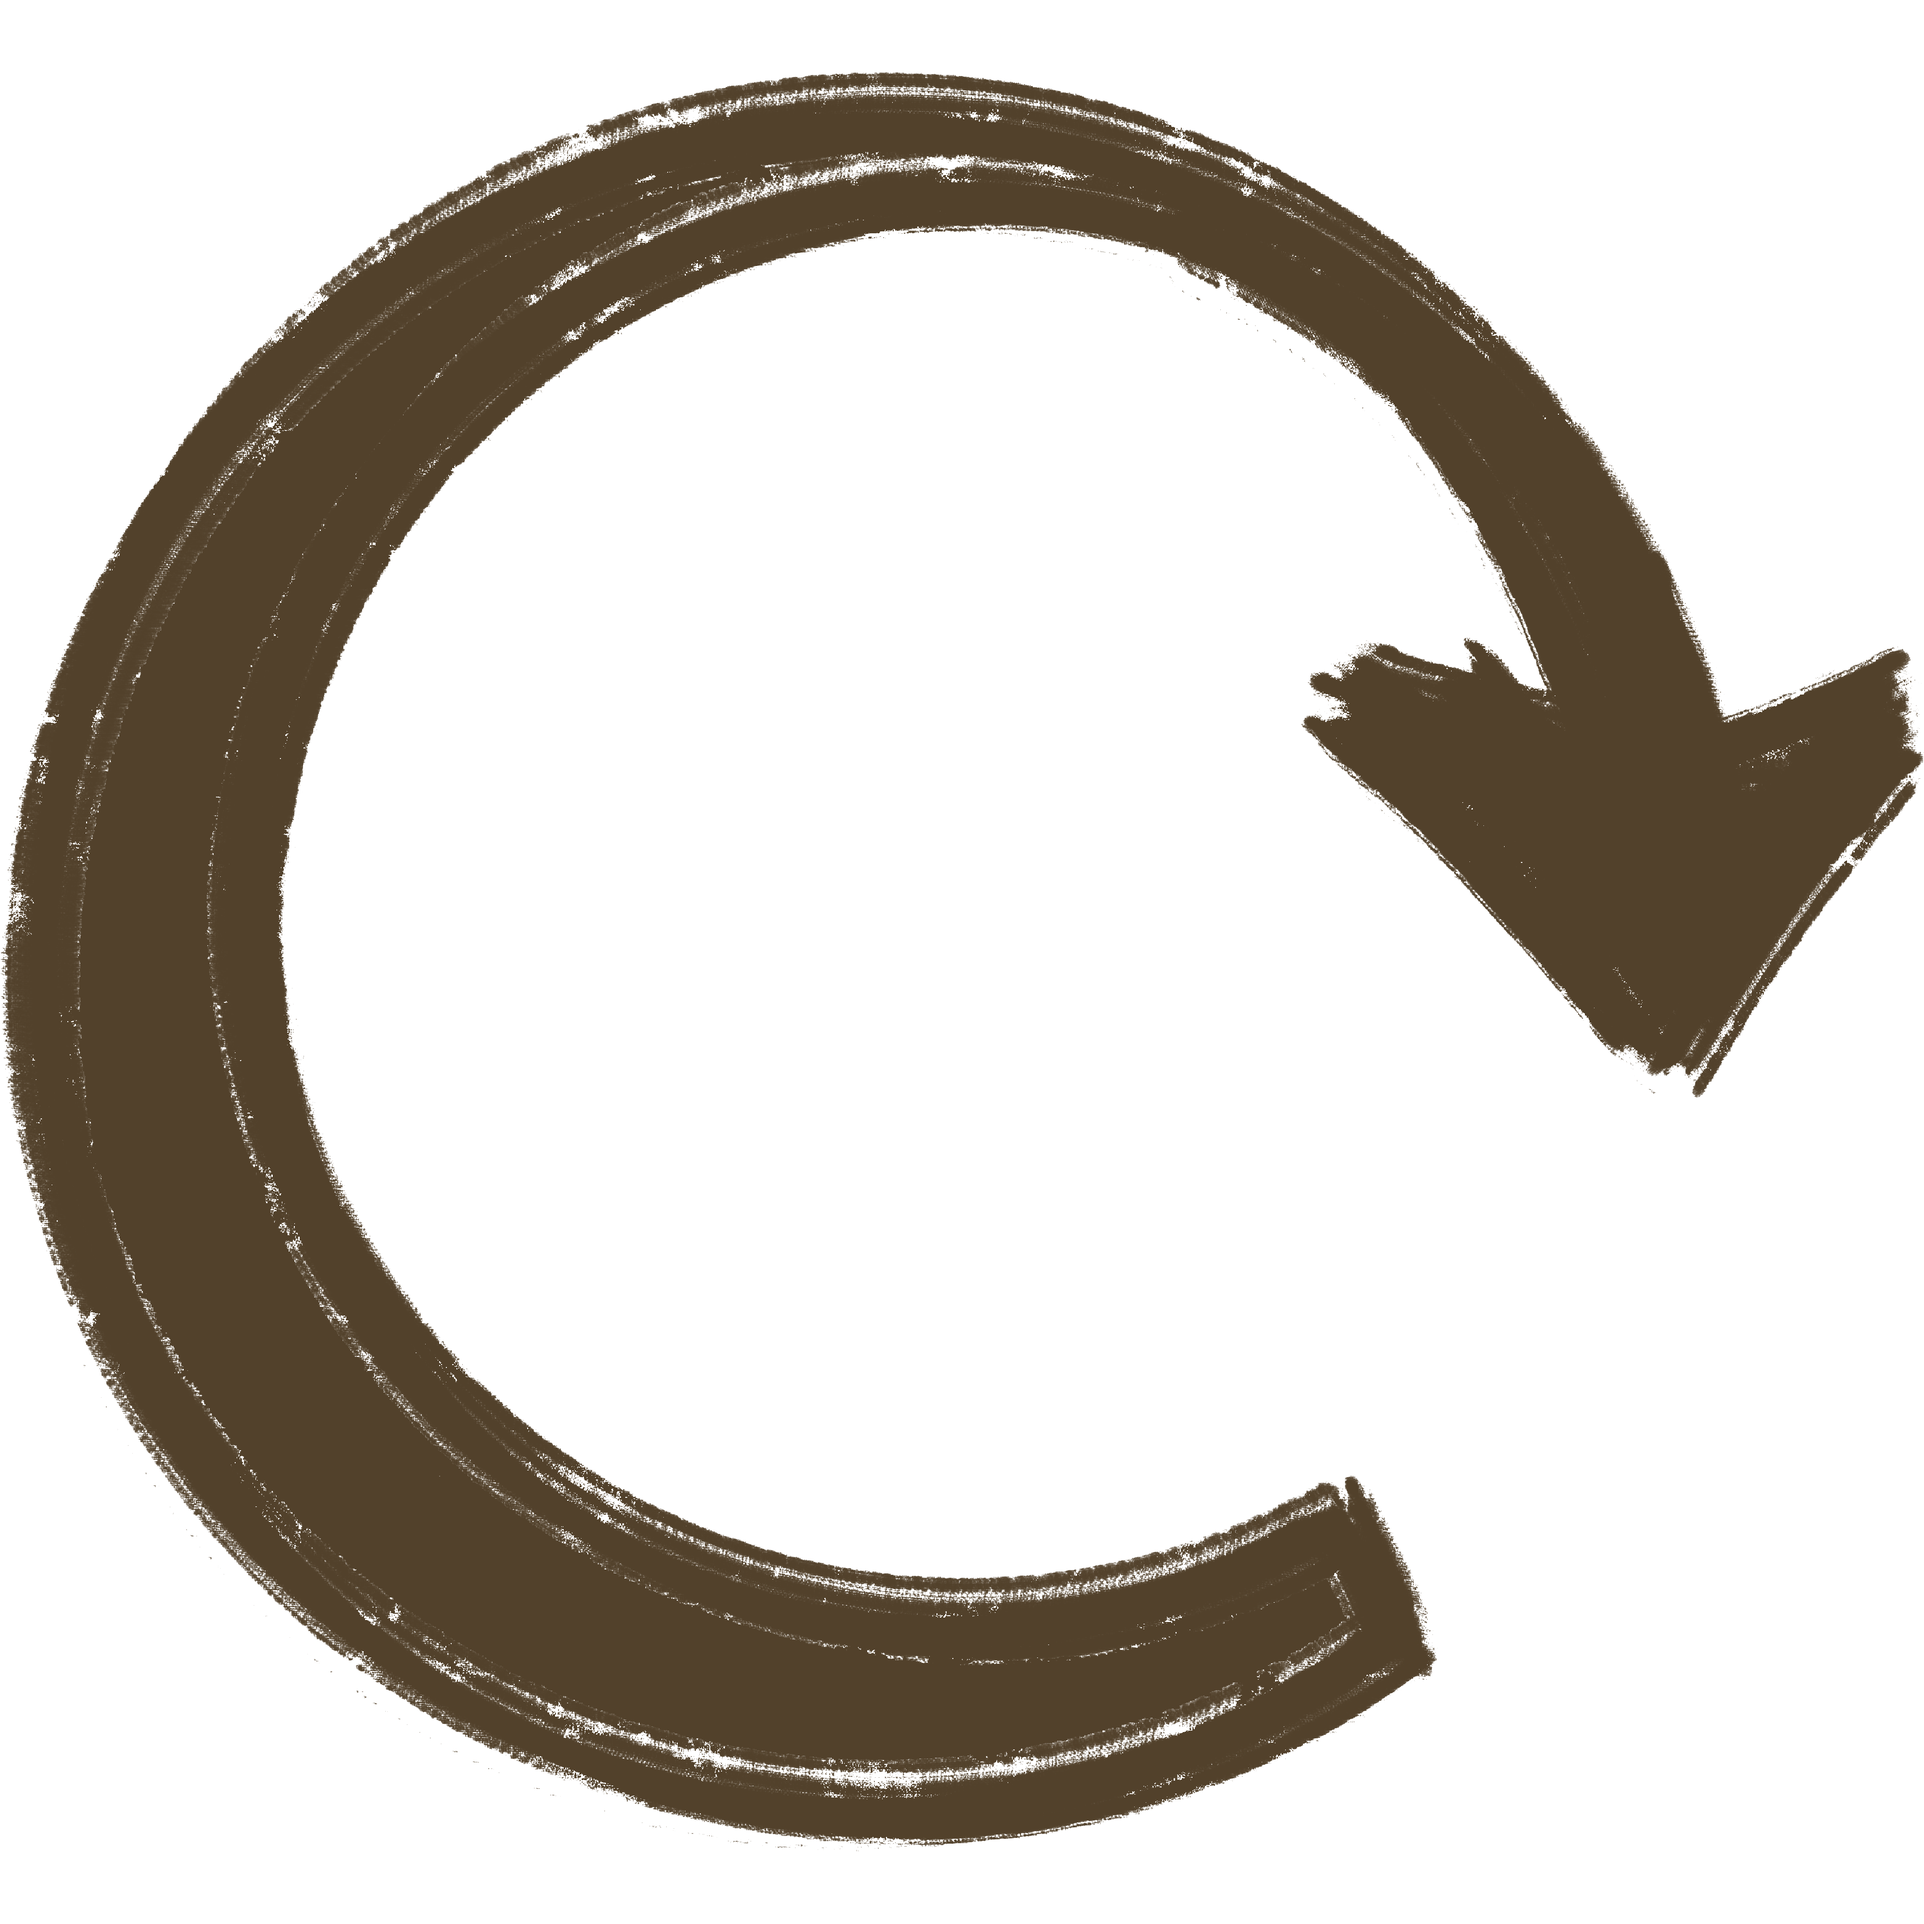
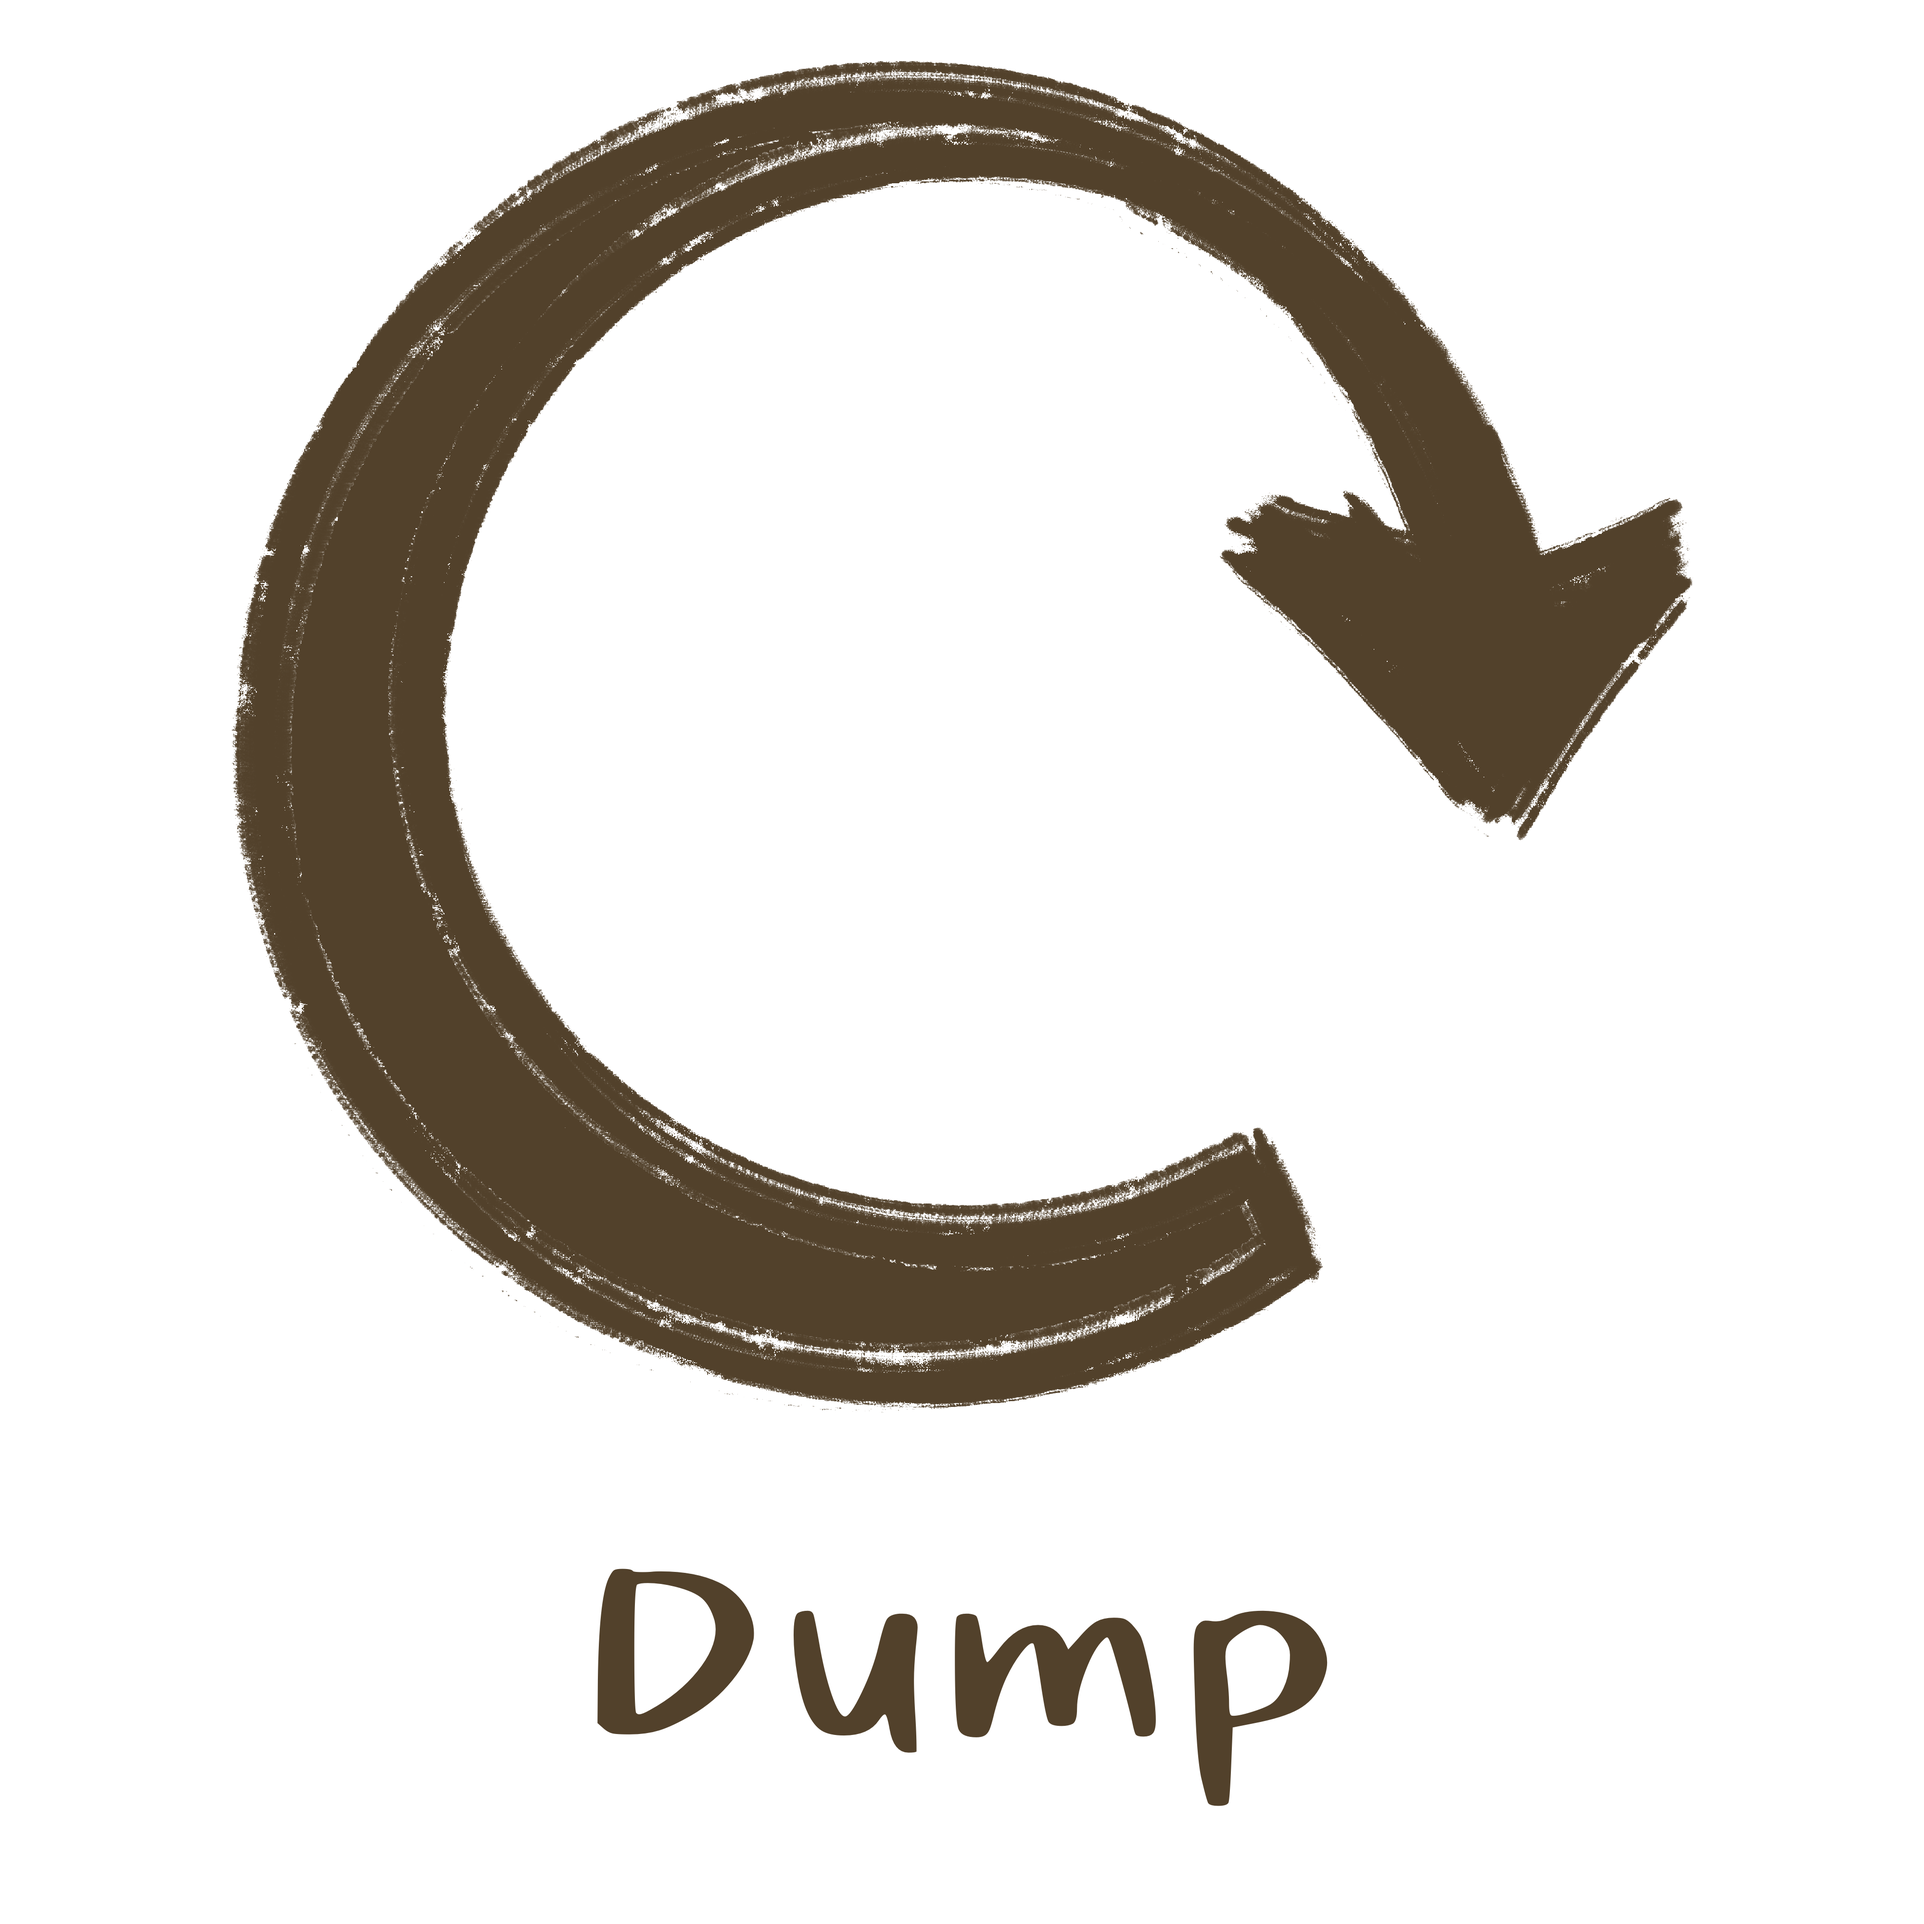
Fix warnings and move reset button

Changed region(s): [[0.0, 0.0312, 0.75, 0.9688], [0.625, 0.0938, 1.0, 0.5625], [0.6562, 0.1562, 0.6875, 0.1875]]

diff --git a/Cauldron.cpp b/Cauldron.cpp
@@ -24,7 +24,7 @@ void Cauldron::addColor(QColor newColor) {
 QColor Cauldron::getColor() {
     if (!totalColors) return Qt::white;
     double reds = 0, greens = 0, blues = 0;
-    for (const QString &key : colors.keys()) {
+    foreach (const QString &key, colors.keys()) {
         double weight = static_cast<double>(colors[key]) / static_cast<double>(totalColors);
         QColor color(key);
         reds += weight * (1.0 - (static_cast<double>(color.red()) / 255.0));
@@ -35,7 +35,7 @@ QColor Cauldron::getColor() {
 }
 
 void Cauldron::getPieColorSeries(QPieSeries& pieSeries) {
-    for (const QColor key : colors.keys()) {
+    foreach (const QColor key, colors.keys()) {
         QPieSlice* pieSlice = new QPieSlice(key.name(), colors[key.name()] / totalColors);
         pieSlice->setColor(key);
         pieSeries.append(pieSlice);
@@ -51,6 +51,7 @@ void Cauldron::dump() {
 
 void Cauldron::paintEvent(QPaintEvent *event)
 {
+    Q_UNUSED(event)
     QPainter painter(this);
     painter.drawImage(rect(), image, image.rect());
 }

diff --git a/mainwindow.cpp b/mainwindow.cpp
@@ -31,7 +31,6 @@ MainWindow::MainWindow(QWidget* parent)
     connect(ui->iv_black,&ColorFlask::addToCauldron,ui->pot,&Cauldron::addColor);
 
     connect(ui->pot,&Cauldron::updateDisplay,ui->potColor,[this](QColor color){ui->potColor->setStyleSheet(QString("image: none; background-color:"+color.name()+"; border-image: none; border-radius: 25px"));});
-
     connect(ui->pot, &Cauldron::colorsChanged, ui->pieChart, &MixingPieChart::updatePieSeries);
 }
 

diff --git a/mixingpiechart.cpp b/mixingpiechart.cpp
@@ -35,7 +35,7 @@ void MixingPieChart::updatePieSeries(const QMap<QString, int>& colors, int total
         QPieSlice* slice = series->append("No Colors", 1.0);
         slice->setColor("white");
     } else {
-        for(const QString& key : colors.keys()) {
+        foreach(const QString& key,colors.keys()) {
             QColor color(key);
             if (!color.isValid()) {
                 continue;

diff --git a/colorflask.cpp b/colorflask.cpp
@@ -128,6 +128,7 @@ void ColorFlask::simulatePhysics() {
 }
 
 void ColorFlask::paintEvent(QPaintEvent* event) {
+    Q_UNUSED(event)
     QPainter painter(this);
     QPixmap pixmap(":/images/potion.png");
     painter.drawPixmap(rect(), pixmap);

diff --git a/Cauldron.h b/Cauldron.h
@@ -24,6 +24,7 @@ public slots:
 
 protected:
     void paintEvent(QPaintEvent *event) override;
+
 signals:
     void updateDisplay(QColor color);
     void colorsChanged(const QMap<QString, int>& colors, int totalColors);
